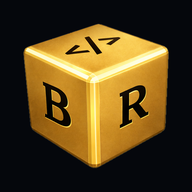
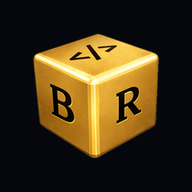
Add files via upload

Changed region(s): [[0.125, 0.125, 0.9062, 0.875]]

diff --git a/index.html b/index.html
@@ -14,15 +14,16 @@
 
 <!-- PWA Manifest & Icons -->
 <link rel="manifest" href="/manifest.json">
-<link rel="icon" href="/favicon.ico" sizes="any">
-<link rel="icon" type="image/png" sizes="48x48" href="/favicon-48.png?v=4">
-<link rel="icon" type="image/png" sizes="192x192" href="/icon-192.png?v=4">
-<link rel="icon" type="image/png" sizes="512x512" href="/icon-512.png?v=3">
+<link rel="icon" href="/favicon.ico?v=5" sizes="any">
+<link rel="icon" type="image/png" sizes="32x32" href="/favicon-32.png?v=5">
+<link rel="icon" type="image/png" sizes="48x48" href="/favicon-48.png?v=5">
+<link rel="icon" type="image/png" sizes="192x192" href="/icon-192.png?v=5">
+<link rel="icon" type="image/png" sizes="512x512" href="/icon-512.png?v=5">
 <meta name="theme-color" content="#05070D">
 
 <!-- iOS Safari (Add to Home Screen) -->
-<link rel="apple-touch-icon" href="/apple-touch-icon.png?v=3">
-<link rel="apple-touch-icon" sizes="180x180" href="/apple-touch-icon.png?v=3">
+<link rel="apple-touch-icon" href="/apple-touch-icon.png?v=5">
+<link rel="apple-touch-icon" sizes="180x180" href="/apple-touch-icon.png?v=5">
 <meta name="apple-mobile-web-app-capable" content="yes">
 <meta name="apple-mobile-web-app-status-bar-style" content="black-translucent">
 <meta name="apple-mobile-web-app-title" content="Benyoriki">
@@ -167,7 +168,7 @@
 
 <!-- ══ SPLASH SCREEN — ringan, ±5 detik, tanpa animasi berat ══ -->
 <div id="splash" role="status" aria-label="Memuat Benyoriki">
-  <div class="sp-mark"><img src="favicon.png?v=3" alt="" width="64" height="64"></div>
+  <div class="sp-mark"><img src="favicon.png?v=5" alt="" width="64" height="64"></div>
   <div class="sp-word">@benyo<span>riki</span></div>
   <div class="sp-bar"><div class="sp-fill" id="spFill"></div></div>
 </div>
@@ -180,7 +181,7 @@
 <!-- ══ NAVBAR ══ -->
 <nav class="navbar" id="navbar">
 <a href="#home" class="nav-brand">
-  <img src="favicon.png?v=3" alt="Logo Benyoriki" class="brand-logo">
+  <img src="favicon.png?v=5" alt="Logo Benyoriki" class="brand-logo">
   <span>@benyo<b>riki</b></span>
 </a>
   <ul class="nav-links" id="navLinks">
@@ -367,7 +368,7 @@
     <p class="sec-sub">Screenshot diambil dari website asli, dan preview-nya bisa dicoba langsung · Klik untuk membuka penuh</p>
 
     <!-- PORTO STATS STRIP -->
-    <svg width="0" height="0" style="position:absolute" aria-hidden="true" focusable="false"><defs><symbol id="i-cal" viewBox="0 0 24 24" fill="none" stroke="currentColor" stroke-width="2" stroke-linecap="round" stroke-linejoin="round"><rect width="18" height="18" x="3" y="4" rx="2"/><path d="M16 2v4M8 2v4M3 10h18"/></symbol><symbol id="i-clock" viewBox="0 0 24 24" fill="none" stroke="currentColor" stroke-width="2" stroke-linecap="round" stroke-linejoin="round"><circle cx="12" cy="12" r="10"/><path d="M12 6v6l4 2"/></symbol><symbol id="i-chat" viewBox="0 0 24 24" fill="none" stroke="currentColor" stroke-width="2" stroke-linecap="round" stroke-linejoin="round"><path d="M7.9 20A9 9 0 1 0 4 16.1L2 22Z"/></symbol><symbol id="i-dash" viewBox="0 0 24 24" fill="none" stroke="currentColor" stroke-width="2" stroke-linecap="round" stroke-linejoin="round"><rect width="7" height="9" x="3" y="3" rx="1"/><rect width="7" height="5" x="14" y="3" rx="1"/><rect width="7" height="9" x="14" y="12" rx="1"/><rect width="7" height="5" x="3" y="16" rx="1"/></symbol><symbol id="i-card" viewBox="0 0 24 24" fill="none" stroke="currentColor" stroke-width="2" stroke-linecap="round" stroke-linejoin="round"><rect width="20" height="14" x="2" y="5" rx="2"/><path d="M2 10h20"/></symbol><symbol id="i-cart" viewBox="0 0 24 24" fill="none" stroke="currentColor" stroke-width="2" stroke-linecap="round" stroke-linejoin="round"><circle cx="8" cy="21" r="1"/><circle cx="19" cy="21" r="1"/><path d="M2.05 2.05h2l2.66 12.42a2 2 0 0 0 2 1.58h9.78a2 2 0 0 0 1.95-1.57l1.65-7.43H5.12"/></symbol><symbol id="i-pin" viewBox="0 0 24 24" fill="none" stroke="currentColor" stroke-width="2" stroke-linecap="round" stroke-linejoin="round"><path d="M20 10c0 6-8 12-8 12s-8-6-8-12a8 8 0 0 1 16 0Z"/><circle cx="12" cy="10" r="3"/></symbol><symbol id="i-qr" viewBox="0 0 24 24" fill="none" stroke="currentColor" stroke-width="2" stroke-linecap="round" stroke-linejoin="round"><rect width="5" height="5" x="3" y="3" rx="1"/><rect width="5" height="5" x="16" y="3" rx="1"/><rect width="5" height="5" x="3" y="16" rx="1"/><path d="M21 16h-3a2 2 0 0 0-2 2v3M21 21v.01M12 7v3a2 2 0 0 1-2 2H7M3 12h.01M12 3h.01M12 16v.01M16 12h1M21 12v.01M12 21v-1"/></symbol><symbol id="i-bell" viewBox="0 0 24 24" fill="none" stroke="currentColor" stroke-width="2" stroke-linecap="round" stroke-linejoin="round"><path d="M6 8a6 6 0 0 1 12 0c0 7 3 9 3 9H3s3-2 3-9M10.3 21a1.94 1.94 0 0 0 3.4 0"/></symbol><symbol id="i-image" viewBox="0 0 24 24" fill="none" stroke="currentColor" stroke-width="2" stroke-linecap="round" stroke-linejoin="round"><rect width="18" height="18" x="3" y="3" rx="2"/><circle cx="9" cy="9" r="2"/><path d="m21 15-3.09-3.09a2 2 0 0 0-2.82 0L6 21"/></symbol><symbol id="i-game" viewBox="0 0 24 24" fill="none" stroke="currentColor" stroke-width="2" stroke-linecap="round" stroke-linejoin="round"><path d="M6 11h4M8 9v4M15 12h.01M18 10h.01"/><path d="M17.32 5H6.68a4 4 0 0 0-3.98 3.59C2.6 9.42 2 14.46 2 16a3 3 0 0 0 3 3c1 0 1.5-.5 2-1l1.41-1.41A2 2 0 0 1 9.83 16h4.34a2 2 0 0 1 1.41.59L17 18c.5.5 1 1 2 1a3 3 0 0 0 3-3c0-1.55-.6-6.58-.69-7.26A4 4 0 0 0 17.32 5z"/></symbol><symbol id="i-ban" viewBox="0 0 24 24" fill="none" stroke="currentColor" stroke-width="2" stroke-linecap="round" stroke-linejoin="round"><circle cx="12" cy="12" r="10"/><path d="m4.9 4.9 14.2 14.2"/></symbol><symbol id="i-zap" viewBox="0 0 24 24" fill="none" stroke="currentColor" stroke-width="2" stroke-linecap="round" stroke-linejoin="round"><path d="M13 2 3 14h9l-1 8 10-12h-9l1-8z"/></symbol><symbol id="i-trophy" viewBox="0 0 24 24" fill="none" stroke="currentColor" stroke-width="2" stroke-linecap="round" stroke-linejoin="round"><path d="M6 9H4.5a2.5 2.5 0 0 1 0-5H6M18 9h1.5a2.5 2.5 0 0 0 0-5H18M4 22h16M10 14.66V17c0 .55-.47.98-1.21 1.21C7.85 18.75 7 20.24 7 22M14 14.66V17c0 .55.47.98 1.21 1.21C16.15 18.75 17 20.24 17 22"/><path d="M18 2H6v7a6 6 0 0 0 12 0V2Z"/></symbol><symbol id="i-shield" viewBox="0 0 24 24" fill="none" stroke="currentColor" stroke-width="2" stroke-linecap="round" stroke-linejoin="round"><path d="M20 13c0 5-3.5 7.5-7.66 8.95a1 1 0 0 1-.67-.01C7.5 20.5 4 18 4 13V6a1 1 0 0 1 1-1c2 0 4.5-1.2 6.24-2.72a1.17 1.17 0 0 1 1.52 0C14.51 3.81 17 5 19 5a1 1 0 0 1 1 1z"/><path d="m9 12 2 2 4-4"/></symbol><symbol id="i-db" viewBox="0 0 24 24" fill="none" stroke="currentColor" stroke-width="2" stroke-linecap="round" stroke-linejoin="round"><ellipse cx="12" cy="5" rx="9" ry="3"/><path d="M3 5v14a9 3 0 0 0 18 0V5M3 12a9 3 0 0 0 18 0"/></symbol><symbol id="i-truck" viewBox="0 0 24 24" fill="none" stroke="currentColor" stroke-width="2" stroke-linecap="round" stroke-linejoin="round"><path d="M14 18V6a2 2 0 0 0-2-2H4a2 2 0 0 0-2 2v11a1 1 0 0 0 1 1h2M15 18H9M19 18h2a1 1 0 0 0 1-1v-3.65a1 1 0 0 0-.22-.62l-3.48-4.35A1 1 0 0 0 17.52 8H14"/><circle cx="17" cy="18" r="2"/><circle cx="7" cy="18" r="2"/></symbol><symbol id="i-calc" viewBox="0 0 24 24" fill="none" stroke="currentColor" stroke-width="2" stroke-linecap="round" stroke-linejoin="round"><rect width="16" height="20" x="4" y="2" rx="2"/><path d="M8 6h8M16 14v4M16 10h.01M12 10h.01M8 10h.01M12 14h.01M8 14h.01M12 18h.01M8 18h.01"/></symbol><symbol id="i-book" viewBox="0 0 24 24" fill="none" stroke="currentColor" stroke-width="2" stroke-linecap="round" stroke-linejoin="round"><path d="M12 7v14M3 18a1 1 0 0 1-1-1V4a1 1 0 0 1 1-1h5a4 4 0 0 1 4 4 4 4 0 0 1 4-4h5a1 1 0 0 1 1 1v13a1 1 0 0 1-1 1h-6a3 3 0 0 0-3 3 3 3 0 0 0-3-3z"/></symbol><symbol id="i-moon" viewBox="0 0 24 24" fill="none" stroke="currentColor" stroke-width="2" stroke-linecap="round" stroke-linejoin="round"><path d="M12 3a6 6 0 0 0 9 9 9 9 0 1 1-9-9Z"/></symbol><symbol id="i-users" viewBox="0 0 24 24" fill="none" stroke="currentColor" stroke-width="2" stroke-linecap="round" stroke-linejoin="round"><path d="M16 21v-2a4 4 0 0 0-4-4H6a4 4 0 0 0-4 4v2"/><circle cx="9" cy="7" r="4"/><path d="M22 21v-2a4 4 0 0 0-3-3.87M16 3.13a4 4 0 0 1 0 7.75"/></symbol><symbol id="i-spark" viewBox="0 0 24 24" fill="none" stroke="currentColor" stroke-width="2" stroke-linecap="round" stroke-linejoin="round"><path d="M9.94 15.5A2 2 0 0 0 8.5 14.06l-6.13-1.58a.5.5 0 0 1 0-.96L8.5 9.94A2 2 0 0 0 9.94 8.5l1.58-6.13a.5.5 0 0 1 .96 0L14.06 8.5a2 2 0 0 0 1.44 1.44l6.13 1.58a.5.5 0 0 1 0 .96L15.5 14.06a2 2 0 0 0-1.44 1.44l-1.58 6.13a.5.5 0 0 1-.96 0z"/></symbol><symbol id="i-ext" viewBox="0 0 24 24" fill="none" stroke="currentColor" stroke-width="2" stroke-linecap="round" stroke-linejoin="round"><path d="M15 3h6v6M10 14 21 3M18 13v6a2 2 0 0 1-2 2H5a2 2 0 0 1-2-2V8a2 2 0 0 1 2-2h6"/></symbol><symbol id="i-play" viewBox="0 0 24 24" fill="none" stroke="currentColor" stroke-width="2" stroke-linecap="round" stroke-linejoin="round"><polygon points="6 3 20 12 6 21 6 3" fill="currentColor"/></symbol><symbol id="i-x" viewBox="0 0 24 24" fill="none" stroke="currentColor" stroke-width="2" stroke-linecap="round" stroke-linejoin="round"><path d="M18 6 6 18M6 6l12 12"/></symbol><symbol id="i-zoom" viewBox="0 0 24 24" fill="none" stroke="currentColor" stroke-width="2" stroke-linecap="round" stroke-linejoin="round"><circle cx="11" cy="11" r="8"/><path d="m21 21-4.3-4.3M11 8v6M8 11h6"/></symbol><symbol id="i-phone" viewBox="0 0 24 24" fill="none" stroke="currentColor" stroke-width="2" stroke-linecap="round" stroke-linejoin="round"><rect width="14" height="20" x="5" y="2" rx="2"/><path d="M12 18h.01"/></symbol><symbol id="i-mon" viewBox="0 0 24 24" fill="none" stroke="currentColor" stroke-width="2" stroke-linecap="round" stroke-linejoin="round"><rect width="20" height="14" x="2" y="3" rx="2"/><path d="M8 21h8M12 17v4"/></symbol><symbol id="i-prev" viewBox="0 0 24 24" fill="none" stroke="currentColor" stroke-width="2" stroke-linecap="round" stroke-linejoin="round"><path d="m15 18-6-6 6-6"/></symbol><symbol id="i-next" viewBox="0 0 24 24" fill="none" stroke="currentColor" stroke-width="2" stroke-linecap="round" stroke-linejoin="round"><path d="m9 18 6-6-6-6"/></symbol><symbol id="i-lock" viewBox="0 0 24 24" fill="none" stroke="currentColor" stroke-width="2" stroke-linecap="round" stroke-linejoin="round"><rect width="18" height="11" x="3" y="11" rx="2"/><path d="M7 11V7a5 5 0 0 1 10 0v4"/></symbol><symbol id="i-img" viewBox="0 0 24 24" fill="none" stroke="currentColor" stroke-width="2" stroke-linecap="round" stroke-linejoin="round"><rect width="18" height="18" x="3" y="3" rx="2"/><circle cx="9" cy="9" r="2"/><path d="m21 15-3.09-3.09a2 2 0 0 0-2.82 0L6 21"/></symbol></defs></svg>
+    <svg width="0" height="0" style="position:absolute" aria-hidden="true" focusable="false"><defs><symbol id="i-cal" viewBox="0 0 24 24" fill="none" stroke="currentColor" stroke-width="2" stroke-linecap="round" stroke-linejoin="round"><rect width="18" height="18" x="3" y="4" rx="2"/><path d="M16 2v4M8 2v4M3 10h18"/></symbol><symbol id="i-clock" viewBox="0 0 24 24" fill="none" stroke="currentColor" stroke-width="2" stroke-linecap="round" stroke-linejoin="round"><circle cx="12" cy="12" r="10"/><path d="M12 6v6l4 2"/></symbol><symbol id="i-chat" viewBox="0 0 24 24" fill="none" stroke="currentColor" stroke-width="2" stroke-linecap="round" stroke-linejoin="round"><path d="M7.9 20A9 9 0 1 0 4 16.1L2 22Z"/></symbol><symbol id="i-dash" viewBox="0 0 24 24" fill="none" stroke="currentColor" stroke-width="2" stroke-linecap="round" stroke-linejoin="round"><rect width="7" height="9" x="3" y="3" rx="1"/><rect width="7" height="5" x="14" y="3" rx="1"/><rect width="7" height="9" x="14" y="12" rx="1"/><rect width="7" height="5" x="3" y="16" rx="1"/></symbol><symbol id="i-card" viewBox="0 0 24 24" fill="none" stroke="currentColor" stroke-width="2" stroke-linecap="round" stroke-linejoin="round"><rect width="20" height="14" x="2" y="5" rx="2"/><path d="M2 10h20"/></symbol><symbol id="i-cart" viewBox="0 0 24 24" fill="none" stroke="currentColor" stroke-width="2" stroke-linecap="round" stroke-linejoin="round"><circle cx="8" cy="21" r="1"/><circle cx="19" cy="21" r="1"/><path d="M2.05 2.05h2l2.66 12.42a2 2 0 0 0 2 1.58h9.78a2 2 0 0 0 1.95-1.57l1.65-7.43H5.12"/></symbol><symbol id="i-pin" viewBox="0 0 24 24" fill="none" stroke="currentColor" stroke-width="2" stroke-linecap="round" stroke-linejoin="round"><path d="M20 10c0 6-8 12-8 12s-8-6-8-12a8 8 0 0 1 16 0Z"/><circle cx="12" cy="10" r="3"/></symbol><symbol id="i-qr" viewBox="0 0 24 24" fill="none" stroke="currentColor" stroke-width="2" stroke-linecap="round" stroke-linejoin="round"><rect width="5" height="5" x="3" y="3" rx="1"/><rect width="5" height="5" x="16" y="3" rx="1"/><rect width="5" height="5" x="3" y="16" rx="1"/><path d="M21 16h-3a2 2 0 0 0-2 2v3M21 21v.01M12 7v3a2 2 0 0 1-2 2H7M3 12h.01M12 3h.01M12 16v.01M16 12h1M21 12v.01M12 21v-1"/></symbol><symbol id="i-bell" viewBox="0 0 24 24" fill="none" stroke="currentColor" stroke-width="2" stroke-linecap="round" stroke-linejoin="round"><path d="M6 8a6 6 0 0 1 12 0c0 7 3 9 3 9H3s3-2 3-9M10.3 21a1.94 1.94 0 0 0 3.4 0"/></symbol><symbol id="i-image" viewBox="0 0 24 24" fill="none" stroke="currentColor" stroke-width="2" stroke-linecap="round" stroke-linejoin="round"><rect width="18" height="18" x="3" y="3" rx="2"/><circle cx="9" cy="9" r="2"/><path d="m21 15-3.09-3.09a2 2 0 0 0-2.82 0L6 21"/></symbol><symbol id="i-game" viewBox="0 0 24 24" fill="none" stroke="currentColor" stroke-width="2" stroke-linecap="round" stroke-linejoin="round"><path d="M6 11h4M8 9v4M15 12h.01M18 10h.01"/><path d="M17.32 5H6.68a4 4 0 0 0-3.98 3.59C2.6 9.42 2 14.46 2 16a3 3 0 0 0 3 3c1 0 1.5-.5 2-1l1.41-1.41A2 2 0 0 1 9.83 16h4.34a2 2 0 0 1 1.41.59L17 18c.5.5 1 1 2 1a3 3 0 0 0 3-3c0-1.55-.6-6.58-.69-7.26A4 4 0 0 0 17.32 5z"/></symbol><symbol id="i-ban" viewBox="0 0 24 24" fill="none" stroke="currentColor" stroke-width="2" stroke-linecap="round" stroke-linejoin="round"><circle cx="12" cy="12" r="10"/><path d="m4.9 4.9 14.2 14.2"/></symbol><symbol id="i-zap" viewBox="0 0 24 24" fill="none" stroke="currentColor" stroke-width="2" stroke-linecap="round" stroke-linejoin="round"><path d="M13 2 3 14h9l-1 8 10-12h-9l1-8z"/></symbol><symbol id="i-trophy" viewBox="0 0 24 24" fill="none" stroke="currentColor" stroke-width="2" stroke-linecap="round" stroke-linejoin="round"><path d="M6 9H4.5a2.5 2.5 0 0 1 0-5H6M18 9h1.5a2.5 2.5 0 0 0 0-5H18M4 22h16M10 14.66V17c0 .55-.47.98-1.21 1.21C7.85 18.75 7 20.24 7 22M14 14.66V17c0 .55.47.98 1.21 1.21C16.15 18.75 17 20.24 17 22"/><path d="M18 2H6v7a6 6 0 0 0 12 0V2Z"/></symbol><symbol id="i-shield" viewBox="0 0 24 24" fill="none" stroke="currentColor" stroke-width="2" stroke-linecap="round" stroke-linejoin="round"><path d="M20 13c0 5-3.5 7.5-7.66 8.95a1 1 0 0 1-.67-.01C7.5 20.5 4 18 4 13V6a1 1 0 0 1 1-1c2 0 4.5-1.2 6.24-2.72a1.17 1.17 0 0 1 1.52 0C14.51 3.81 17 5 19 5a1 1 0 0 1 1 1z"/><path d="m9 12 2 2 4-4"/></symbol><symbol id="i-db" viewBox="0 0 24 24" fill="none" stroke="currentColor" stroke-width="2" stroke-linecap="round" stroke-linejoin="round"><ellipse cx="12" cy="5" rx="9" ry="3"/><path d="M3 5v14a9 3 0 0 0 18 0V5M3 12a9 3 0 0 0 18 0"/></symbol><symbol id="i-truck" viewBox="0 0 24 24" fill="none" stroke="currentColor" stroke-width="2" stroke-linecap="round" stroke-linejoin="round"><path d="M14 18V6a2 2 0 0 0-2-2H4a2 2 0 0 0-2 2v11a1 1 0 0 0 1 1h2M15 18H9M19 18h2a1 1 0 0 0 1-1v-3.65a1 1 0 0 0-.22-.62l-3.48-4.35A1 1 0 0 0 17.52 8H14"/><circle cx="17" cy="18" r="2"/><circle cx="7" cy="18" r="2"/></symbol><symbol id="i-calc" viewBox="0 0 24 24" fill="none" stroke="currentColor" stroke-width="2" stroke-linecap="round" stroke-linejoin="round"><rect width="16" height="20" x="4" y="2" rx="2"/><path d="M8 6h8M16 14v4M16 10h.01M12 10h.01M8 10h.01M12 14h.01M8 14h.01M12 18h.01M8 18h.01"/></symbol><symbol id="i-book" viewBox="0 0 24 24" fill="none" stroke="currentColor" stroke-width="2" stroke-linecap="round" stroke-linejoin="round"><path d="M12 7v14M3 18a1 1 0 0 1-1-1V4a1 1 0 0 1 1-1h5a4 4 0 0 1 4 4 4 4 0 0 1 4-4h5a1 1 0 0 1 1 1v13a1 1 0 0 1-1 1h-6a3 3 0 0 0-3 3 3 3 0 0 0-3-3z"/></symbol><symbol id="i-moon" viewBox="0 0 24 24" fill="none" stroke="currentColor" stroke-width="2" stroke-linecap="round" stroke-linejoin="round"><path d="M12 3a6 6 0 0 0 9 9 9 9 0 1 1-9-9Z"/></symbol><symbol id="i-users" viewBox="0 0 24 24" fill="none" stroke="currentColor" stroke-width="2" stroke-linecap="round" stroke-linejoin="round"><path d="M16 21v-2a4 4 0 0 0-4-4H6a4 4 0 0 0-4 4v2"/><circle cx="9" cy="7" r="4"/><path d="M22 21v-2a4 4 0 0 0-3-3.87M16 3.13a4 4 0 0 1 0 7.75"/></symbol><symbol id="i-spark" viewBox="0 0 24 24" fill="none" stroke="currentColor" stroke-width="2" stroke-linecap="round" stroke-linejoin="round"><path d="M9.94 15.5A2 2 0 0 0 8.5 14.06l-6.13-1.58a.5.5 0 0 1 0-.96L8.5 9.94A2 2 0 0 0 9.94 8.5l1.58-6.13a.5.5 0 0 1 .96 0L14.06 8.5a2 2 0 0 0 1.44 1.44l6.13 1.58a.5.5 0 0 1 0 .96L15.5 14.06a2 2 0 0 0-1.44 1.44l-1.58 6.13a.5.5 0 0 1-.96 0z"/></symbol><symbol id="i-down" viewBox="0 0 24 24" fill="none" stroke="currentColor" stroke-width="2" stroke-linecap="round" stroke-linejoin="round"><path d="m6 9 6 6 6-6"/></symbol><symbol id="i-ext" viewBox="0 0 24 24" fill="none" stroke="currentColor" stroke-width="2" stroke-linecap="round" stroke-linejoin="round"><path d="M15 3h6v6M10 14 21 3M18 13v6a2 2 0 0 1-2 2H5a2 2 0 0 1-2-2V8a2 2 0 0 1 2-2h6"/></symbol><symbol id="i-play" viewBox="0 0 24 24" fill="none" stroke="currentColor" stroke-width="2" stroke-linecap="round" stroke-linejoin="round"><polygon points="6 3 20 12 6 21 6 3" fill="currentColor"/></symbol><symbol id="i-x" viewBox="0 0 24 24" fill="none" stroke="currentColor" stroke-width="2" stroke-linecap="round" stroke-linejoin="round"><path d="M18 6 6 18M6 6l12 12"/></symbol><symbol id="i-zoom" viewBox="0 0 24 24" fill="none" stroke="currentColor" stroke-width="2" stroke-linecap="round" stroke-linejoin="round"><circle cx="11" cy="11" r="8"/><path d="m21 21-4.3-4.3M11 8v6M8 11h6"/></symbol><symbol id="i-phone" viewBox="0 0 24 24" fill="none" stroke="currentColor" stroke-width="2" stroke-linecap="round" stroke-linejoin="round"><rect width="14" height="20" x="5" y="2" rx="2"/><path d="M12 18h.01"/></symbol><symbol id="i-mon" viewBox="0 0 24 24" fill="none" stroke="currentColor" stroke-width="2" stroke-linecap="round" stroke-linejoin="round"><rect width="20" height="14" x="2" y="3" rx="2"/><path d="M8 21h8M12 17v4"/></symbol><symbol id="i-prev" viewBox="0 0 24 24" fill="none" stroke="currentColor" stroke-width="2" stroke-linecap="round" stroke-linejoin="round"><path d="m15 18-6-6 6-6"/></symbol><symbol id="i-next" viewBox="0 0 24 24" fill="none" stroke="currentColor" stroke-width="2" stroke-linecap="round" stroke-linejoin="round"><path d="m9 18 6-6-6-6"/></symbol><symbol id="i-lock" viewBox="0 0 24 24" fill="none" stroke="currentColor" stroke-width="2" stroke-linecap="round" stroke-linejoin="round"><rect width="18" height="11" x="3" y="11" rx="2"/><path d="M7 11V7a5 5 0 0 1 10 0v4"/></symbol><symbol id="i-img" viewBox="0 0 24 24" fill="none" stroke="currentColor" stroke-width="2" stroke-linecap="round" stroke-linejoin="round"><rect width="18" height="18" x="3" y="3" rx="2"/><circle cx="9" cy="9" r="2"/><path d="m21 15-3.09-3.09a2 2 0 0 0-2.82 0L6 21"/></symbol></defs></svg>
     <div class="porto-stats">
       <div class="pstat"><span class="pstat-num">19</span><span class="pstat-lbl">Proyek Website</span></div>
       <div class="pstat-dot"></div>
@@ -807,6 +808,9 @@
     </div>
 
     <div class="porto-dots" id="portoDots"></div>
+    <div class="porto-more" id="portoMore" hidden>
+      <button type="button" class="pc-btn pc-btn-main porto-more-btn" id="portoMoreBtn" aria-expanded="false" aria-controls="portoGrid"><span id="portoMoreTx">Lihat Semua</span><svg class="i" aria-hidden="true"><use href="#i-down"/></svg></button>
+    </div>
     <div class="porto-counter" aria-live="polite">Menampilkan <span id="portoCount">19</span> dari 19 proyek</div>
   </div>
 

diff --git a/porto.js b/porto.js
@@ -11,17 +11,25 @@
   var hint = document.getElementById('portoSwipeHint');
   var reduce = window.matchMedia('(prefers-reduced-motion: reduce)').matches;
 
-  /* ── FILTER ── */
+  /* ── FILTER + "LIHAT SEMUA" (awal: 6 kartu = 2 baris x 3) ── */
+  var LIMIT = 6, filter = 'all', expanded = false, firstRender = true;
+  var more = document.getElementById('portoMore'), moreBtn = document.getElementById('portoMoreBtn'), moreTx = document.getElementById('portoMoreTx');
   function visible() { return cards.filter(function (c) { return !c.hidden; }); }
-  function applyFilter(f) {
-    var n = 0;
+  function render(animate) {
+    var matches = cards.filter(function (c) { return filter === 'all' || c.dataset.cat === filter; });
+    var shown = expanded ? matches : matches.slice(0, LIMIT);
     cards.forEach(function (c) {
-      var show = f === 'all' || c.dataset.cat === f;
-      c.hidden = !show;
-      c.classList.remove('pc-in');
-      if (show) { n++; if (!reduce) { void c.offsetWidth; c.classList.add('pc-in'); } }
+      var show = shown.indexOf(c) > -1, was = !c.hidden;
+      c.hidden = !show; c.classList.remove('pc-in');
+      if (show && !was && animate && !reduce) { void c.offsetWidth; c.classList.add('pc-in'); }
     });
-    if (countEl) countEl.textContent = n;
+    if (countEl) countEl.textContent = shown.length;
+    if (more) {
+      more.hidden = matches.length <= LIMIT;
+      moreBtn.setAttribute('aria-expanded', expanded);
+      moreTx.textContent = expanded ? 'Tampilkan Lebih Sedikit' : 'Lihat Semua ' + matches.length + ' Proyek';
+      moreBtn.classList.toggle('open', expanded);
+    }
     grid.scrollLeft = 0;
     buildDots();
   }
@@ -29,8 +37,12 @@
     b.addEventListener('click', function () {
       btns.forEach(function (x) { x.classList.remove('active'); x.setAttribute('aria-pressed', 'false'); });
       b.classList.add('active'); b.setAttribute('aria-pressed', 'true');
-      applyFilter(b.dataset.filter);
+      filter = b.dataset.filter; expanded = false; render(true);
     });
+  });
+  if (moreBtn) moreBtn.addEventListener('click', function () {
+    expanded = !expanded; render(true);
+    if (!expanded) { var f = document.getElementById('portoFilter'); if (f) f.scrollIntoView({ behavior: reduce ? 'auto' : 'smooth', block: 'center' }); }
   });
 
   /* ── DOTS (carousel HP) ── */
@@ -58,7 +70,7 @@
     });
   }, { passive: true });
   window.addEventListener('resize', buildDots);
-  buildDots();
+  render(false);
 
   /* ── STATUS (hasil tools/screenshots.mjs): LIVE hanya untuk website yang terverifikasi ── */
   function applyStatus() {

diff --git a/style.css b/style.css
@@ -14,7 +14,7 @@ img{max-width:100%;display:block}a{color:inherit}ul{list-style:none}button,input
 /* splash */
 #splash{position:fixed;inset:0;z-index:999;background:var(--bg);display:flex;flex-direction:column;align-items:center;justify-content:center;gap:16px;transition:opacity .4s}
 #splash.sp-hide{opacity:0;pointer-events:none}
-.sp-mark img{width:64px;height:64px;border-radius:16px}
+.sp-mark img{width:72px;height:72px;border-radius:0;object-fit:contain}
 .sp-word{font:800 1.4rem var(--fh)}.sp-word span{color:var(--gold)}
 .sp-bar{width:140px;height:3px;background:var(--b1);border-radius:9px;overflow:hidden}
 .sp-fill{height:100%;width:0;background:var(--gr);transition:width 1s ease-out}
@@ -22,7 +22,7 @@ img{max-width:100%;display:block}a{color:inherit}ul{list-style:none}button,input
 .navbar{position:fixed;top:0;left:0;right:0;z-index:200;height:68px;display:flex;align-items:center;justify-content:space-between;gap:16px;padding:0 max(20px,calc((100vw - 1200px)/2));background:var(--nav);backdrop-filter:saturate(1.4) blur(12px);-webkit-backdrop-filter:saturate(1.4) blur(12px);border-bottom:1px solid var(--b1);transition:box-shadow var(--dur)}
 .navbar.up{box-shadow:0 8px 30px rgba(0,0,0,.25)}
 .nav-brand{display:flex;align-items:center;gap:10px;text-decoration:none;font:800 1.15rem var(--fh);letter-spacing:-.02em}
-.nav-brand b{color:var(--gold)}.brand-logo{width:38px;height:38px;border-radius:10px}
+.nav-brand b{color:var(--gold)}.brand-logo{width:40px;height:40px;border-radius:0;object-fit:contain}
 .nav-links{display:none;gap:4px}
 .nl{display:block;padding:8px 13px;border-radius:99px;font-size:.88rem;font-weight:500;color:var(--tx2);text-decoration:none;transition:var(--dur)}
 .nl:hover,.nl.active{color:var(--tx);background:var(--ggold)}

diff --git a/porto.css b/porto.css
@@ -133,3 +133,10 @@ html.pm-lock,html.pm-lock body{overflow:hidden}
   .pm-foot{flex-direction:column;align-items:stretch;gap:8px}.pm-foot-act{justify-content:space-between}
 }
 @media(prefers-reduced-motion:reduce){.pc,.pc *,.pm-box{animation:none!important;transition:none!important}}
+
+/* tombol "Lihat Semua" */
+.porto-more{display:flex;justify-content:center;margin-top:20px}
+.porto-more[hidden]{display:none}
+.porto-more-btn{padding:13px 28px;font-size:.92rem;border-radius:99px;box-shadow:0 10px 30px rgba(212,175,85,.25)}
+.porto-more-btn .i{width:16px;height:16px;transition:transform .3s}
+.porto-more-btn.open .i{transform:rotate(180deg)}
